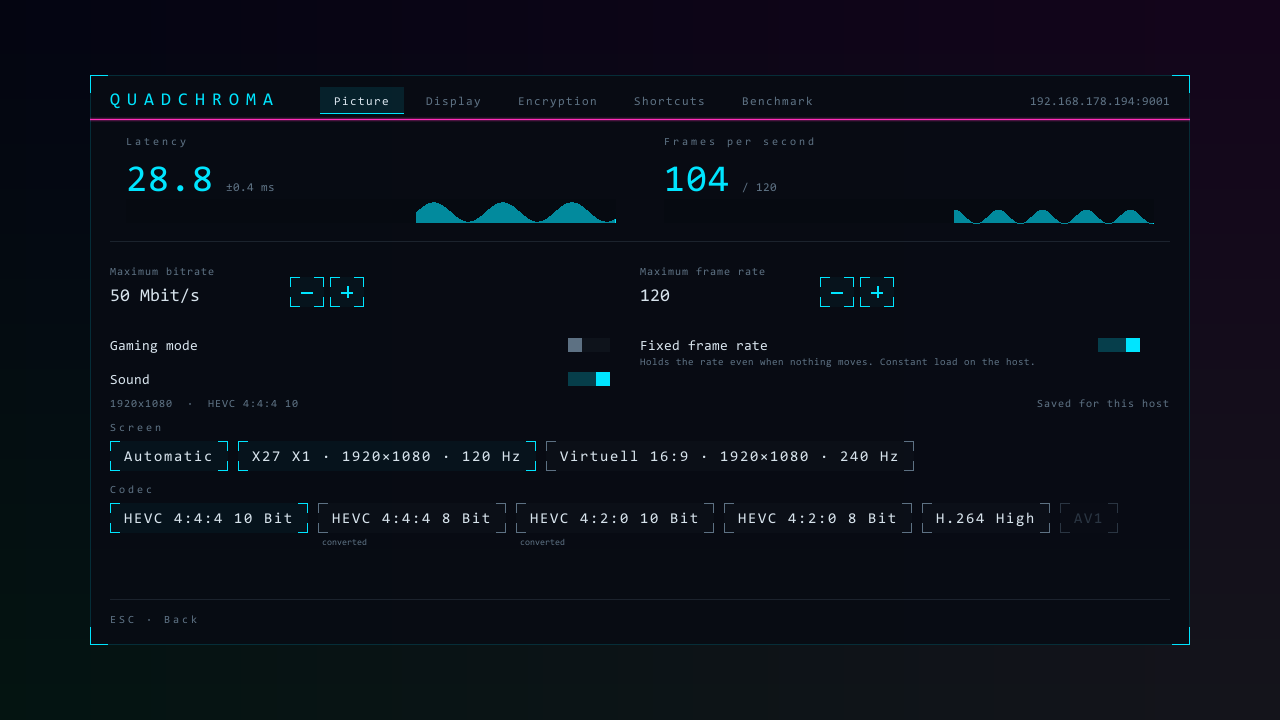
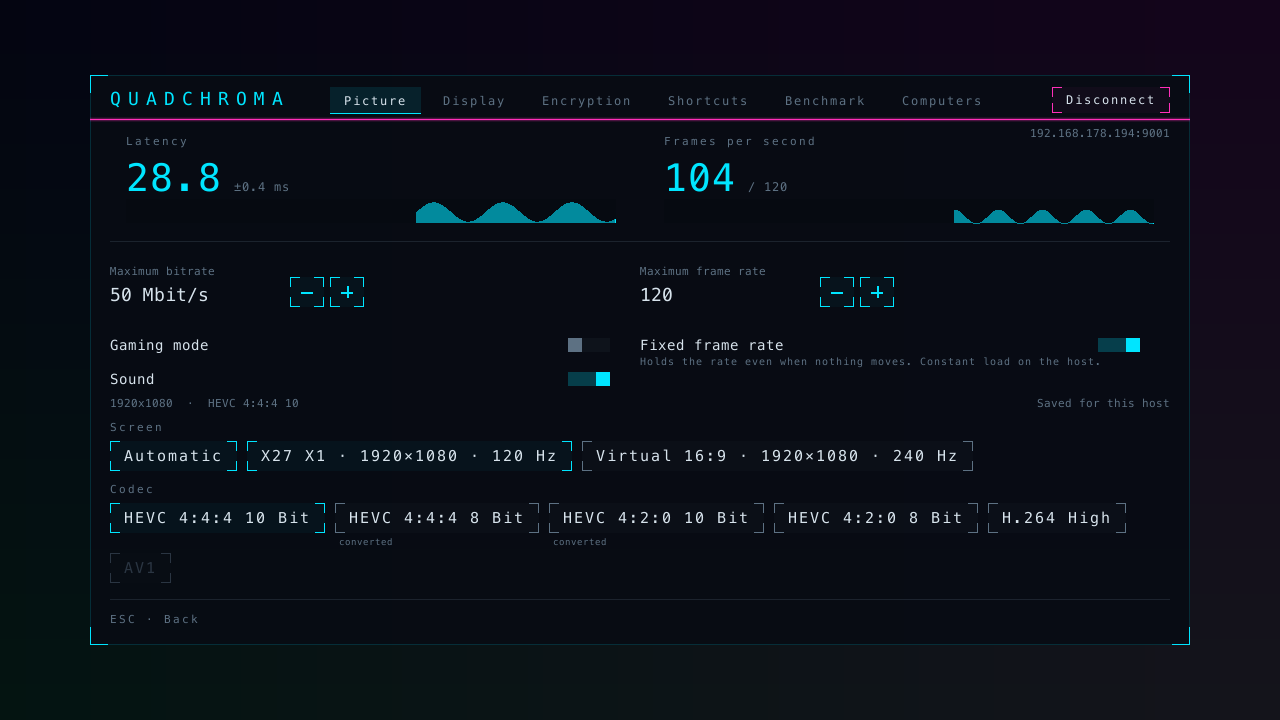
README screenshots: the one app's start screen and the six-tab menu
The start screen image still showed the old window with "Quit" and
without the sharing check box, the "This computer" line and the check
boxes for sleep and autostart; the menu image had five tabs and no
"Disconnect" in the header, and a German screen name.

Both are rendered anew with the headless renderer on the Mac
(--shot <file> en startfreigabe, --shot <file> en hud), sizes unchanged.
The renderer's example names are English now (Robert's Mac mini,
Office PC, Virtual 16:9, ...), and "This computer" no longer shows the
same device ID as the Mac mini in the list. The statistics and nerd-mode
images still match the interface and stay.

The images get English file names (start-screen.png,
session-stats.png), and the alt texts describe what they show.

diff --git a/client/src/main.rs b/client/src/main.rs
@@ -11156,7 +11156,7 @@ fn screenshot(path: &str, w: usize, h: usize, lang: &'static strings::Lang, view
                 kennung: "v1138-m1234-s0".into(), name: "X27 X1".into(), breite: 1920, hoehe: 1080, hz: 120, haupt: true, gestreamt: true,
             },
             bildschirm::BildschirmEintrag {
-                kennung: "v0-m0-s0".into(), name: "Virtuell 16:9".into(), breite: 1920, hoehe: 1080, hz: 240, haupt: false, gestreamt: false,
+                kennung: "v0-m0-s0".into(), name: "Virtual 16:9".into(), breite: 1920, hoehe: 1080, hz: 240, haupt: false, gestreamt: false,
             },
         ];
         let stand = HudStand {
@@ -11185,8 +11185,8 @@ fn screenshot(path: &str, w: usize, h: usize, lang: &'static strings::Lang, view
             // aelterer Host ohne ID; die Maus steht ueber dem Laptop.
             geraete: geraete_im_reiter(
                 vec![
-                    Hostzeile { name: "Buero-PC".into(), adresse: "192.168.178.60:9001".into(), id: Some(305_114_872), bekannt: true },
-                    Hostzeile { name: "Roberts Mac mini".into(), adresse: "192.168.178.194:9001".into(), id: Some(581_729_911), bekannt: true },
+                    Hostzeile { name: "Office PC".into(), adresse: "192.168.178.60:9001".into(), id: Some(305_114_872), bekannt: true },
+                    Hostzeile { name: "Robert's Mac mini".into(), adresse: "192.168.178.194:9001".into(), id: Some(581_729_911), bekannt: true },
                     Hostzeile { name: "Laptop".into(), adresse: "192.168.178.71:9001".into(), id: Some(12_004_417), bekannt: false },
                     Hostzeile { name: "studio.local".into(), adresse: "192.168.178.80:9001".into(), id: None, bekannt: false },
                 ],
@@ -11232,7 +11232,7 @@ fn screenshot(path: &str, w: usize, h: usize, lang: &'static strings::Lang, view
         // Die Schreibmarke blinkt: in diesem Takt steht sie.
         u.tick = 70;
         let mut d = zugangsphase::Dialog {
-            name: "Roberts Mac mini".into(),
+            name: "Robert's Mac mini".into(),
             id: 581_729_911,
             code: "628 306".into(),
             zulassen: true,
@@ -11287,7 +11287,7 @@ fn screenshot(path: &str, w: usize, h: usize, lang: &'static strings::Lang, view
     // gerollt - mit Rollbalken.
     let mut hosts = vec![
         Hostzeile {
-            name: "Roberts Mac mini".into(),
+            name: "Robert's Mac mini".into(),
             adresse: "192.168.178.194:9001".into(),
             id: Some(581_729_911),
             bekannt: true,
@@ -11295,7 +11295,7 @@ fn screenshot(path: &str, w: usize, h: usize, lang: &'static strings::Lang, view
         Hostzeile { name: "studio.local".into(), adresse: "192.168.178.60:9001".into(), id: None, bekannt: false },
     ];
     if view == "startrollen" {
-        for (i, n) in ["Buero-PC", "Keller", "Laptop", "Wohnzimmer", "Werkstatt"].iter().enumerate() {
+        for (i, n) in ["Office PC", "Basement", "Laptop", "Living room", "Workshop"].iter().enumerate() {
             let id = 100_000_000 + i as u32 * 7_654_321;
             hosts.push(Hostzeile { name: (*n).into(), adresse: format!("192.168.178.{}:9001", 70 + i), id: Some(id), bekannt: false });
         }
@@ -11316,11 +11316,11 @@ fn screenshot(path: &str, w: usize, h: usize, lang: &'static strings::Lang, view
                 .text(lang),
         ),
         "veraltet" => Some(Meldung::neu(strings::Key::MsgHostOutdated, "").mit("{n}", "studio.local").text(lang)),
-        "abgelehnt" => Some(Meldung::neu(strings::Key::MsgRefused, "").mit("{n}", "Roberts Mac mini").text(lang)),
+        "abgelehnt" => Some(Meldung::neu(strings::Key::MsgRefused, "").mit("{n}", "Robert's Mac mini").text(lang)),
         "idfehlt" => Some(Meldung::neu(strings::Key::MsgIdNotFound, "").mit("{i}", "123 456 789").text(lang)),
-        "entfernt" => Some(Meldung::neu(strings::Key::MsgDeviceRemoved, "").mit("{n}", "Roberts Mac mini").text(lang)),
+        "entfernt" => Some(Meldung::neu(strings::Key::MsgDeviceRemoved, "").mit("{n}", "Robert's Mac mini").text(lang)),
         "freigabefehler" => Some(lang.get(strings::Key::MsgShareFailed).to_string()),
-        "beendet" => Some(host_ende_meldung(HOST_ENDE_BEENDET, "Roberts Mac mini", "192.168.178.194:9001").text(lang)),
+        "beendet" => Some(host_ende_meldung(HOST_ENDE_BEENDET, "Robert's Mac mini", "192.168.178.194:9001").text(lang)),
         _ => None,
     };
     // "starttip": die Maus steht ueber dem Knopf "Verknuepfung" der ersten
@@ -11352,8 +11352,8 @@ fn screenshot(path: &str, w: usize, h: usize, lang: &'static strings::Lang, view
     };
     let dieser = MIT_FREIGABE.then_some(DieserComputer {
         freigabe: an,
-        name: "Büro-PC",
-        id: Some(581_729_911),
+        name: "Office PC",
+        id: Some(305_114_872),
         ruhe_verhindern: an,
         ruhe_grund: None,
         autostart,

diff --git a/README.md b/README.md
@@ -34,7 +34,7 @@ and the codec can be switched while the session runs.
   with Windows Remote Desktop; choose which of the Mac's screens to show (it follows
   the main screen automatically); audio; a desktop shortcut per host; 29 languages.
 
-![Start screen of the Windows client: two hosts found on the network - one already known (check mark) with its device ID, one older host without an ID - each with a Desktop shortcut button, the address field, and the buttons Connect, Share this PC and Quit. The interface is available in 29 languages.](oberflaeche.png)
+![The start screen of the app on a Mac: two computers found on the network - one already known (check mark) with its device ID, one older host without an ID - the address field, the buttons Connect, Share this Mac (with its check box) and Close window, below them the line "This computer: Office PC · 305 114 872" with Rename and the check boxes "Prevent sleep while QuadChroma is running" and "Start at login". On Windows the same screen says Share this PC and Start with Windows and has a Desktop shortcut button in every row. The interface is available in 29 languages.](start-screen.png)
 
 ## How it compares
 
@@ -346,7 +346,7 @@ not know yet cannot answer its access request, and a new client reports a host o
 earlier version that does not know it ("… uses an older QuadChroma version"): update
 both sides.
 
-![Statistics panel (F9) during a session with HEVC 4:4:4 at 10 bits, 1920x1080, decoded by NVDEC; the last line shows the six-digit comparison code.](oberflaeche-sitzung.png)
+![Statistics panel (F9) during a session with HEVC 4:4:4 at 10 bits, 1920x1080, decoded by NVDEC; the last line shows the six-digit comparison code.](session-stats.png)
 
 ## Using the client
 
@@ -413,7 +413,7 @@ immediately and reports back what is actually in effect; the client stores the v
 per host (by fingerprint) and restores them on the next connection. The choice of
 screen is stored by the host itself.
 
-![The menu, Picture tab: latency and frame rate, maximum bit rate and frame rate, gaming mode, fixed frame rate, sound, the host's screens (Automatic and two screens) and the codecs the host offers.](hud.png)
+![The menu (F10, or hold ESC) with its six tabs - Picture, Display, Encryption, Shortcuts, Benchmark, Computers - and Disconnect at the right of the header, above the host's address. The Picture tab is open: latency and frame rate, maximum bit rate and frame rate, gaming mode, fixed frame rate, sound, the host's screens (Automatic and two screens) and the codecs the host offers.](hud.png)
 
 ### Codecs
 
